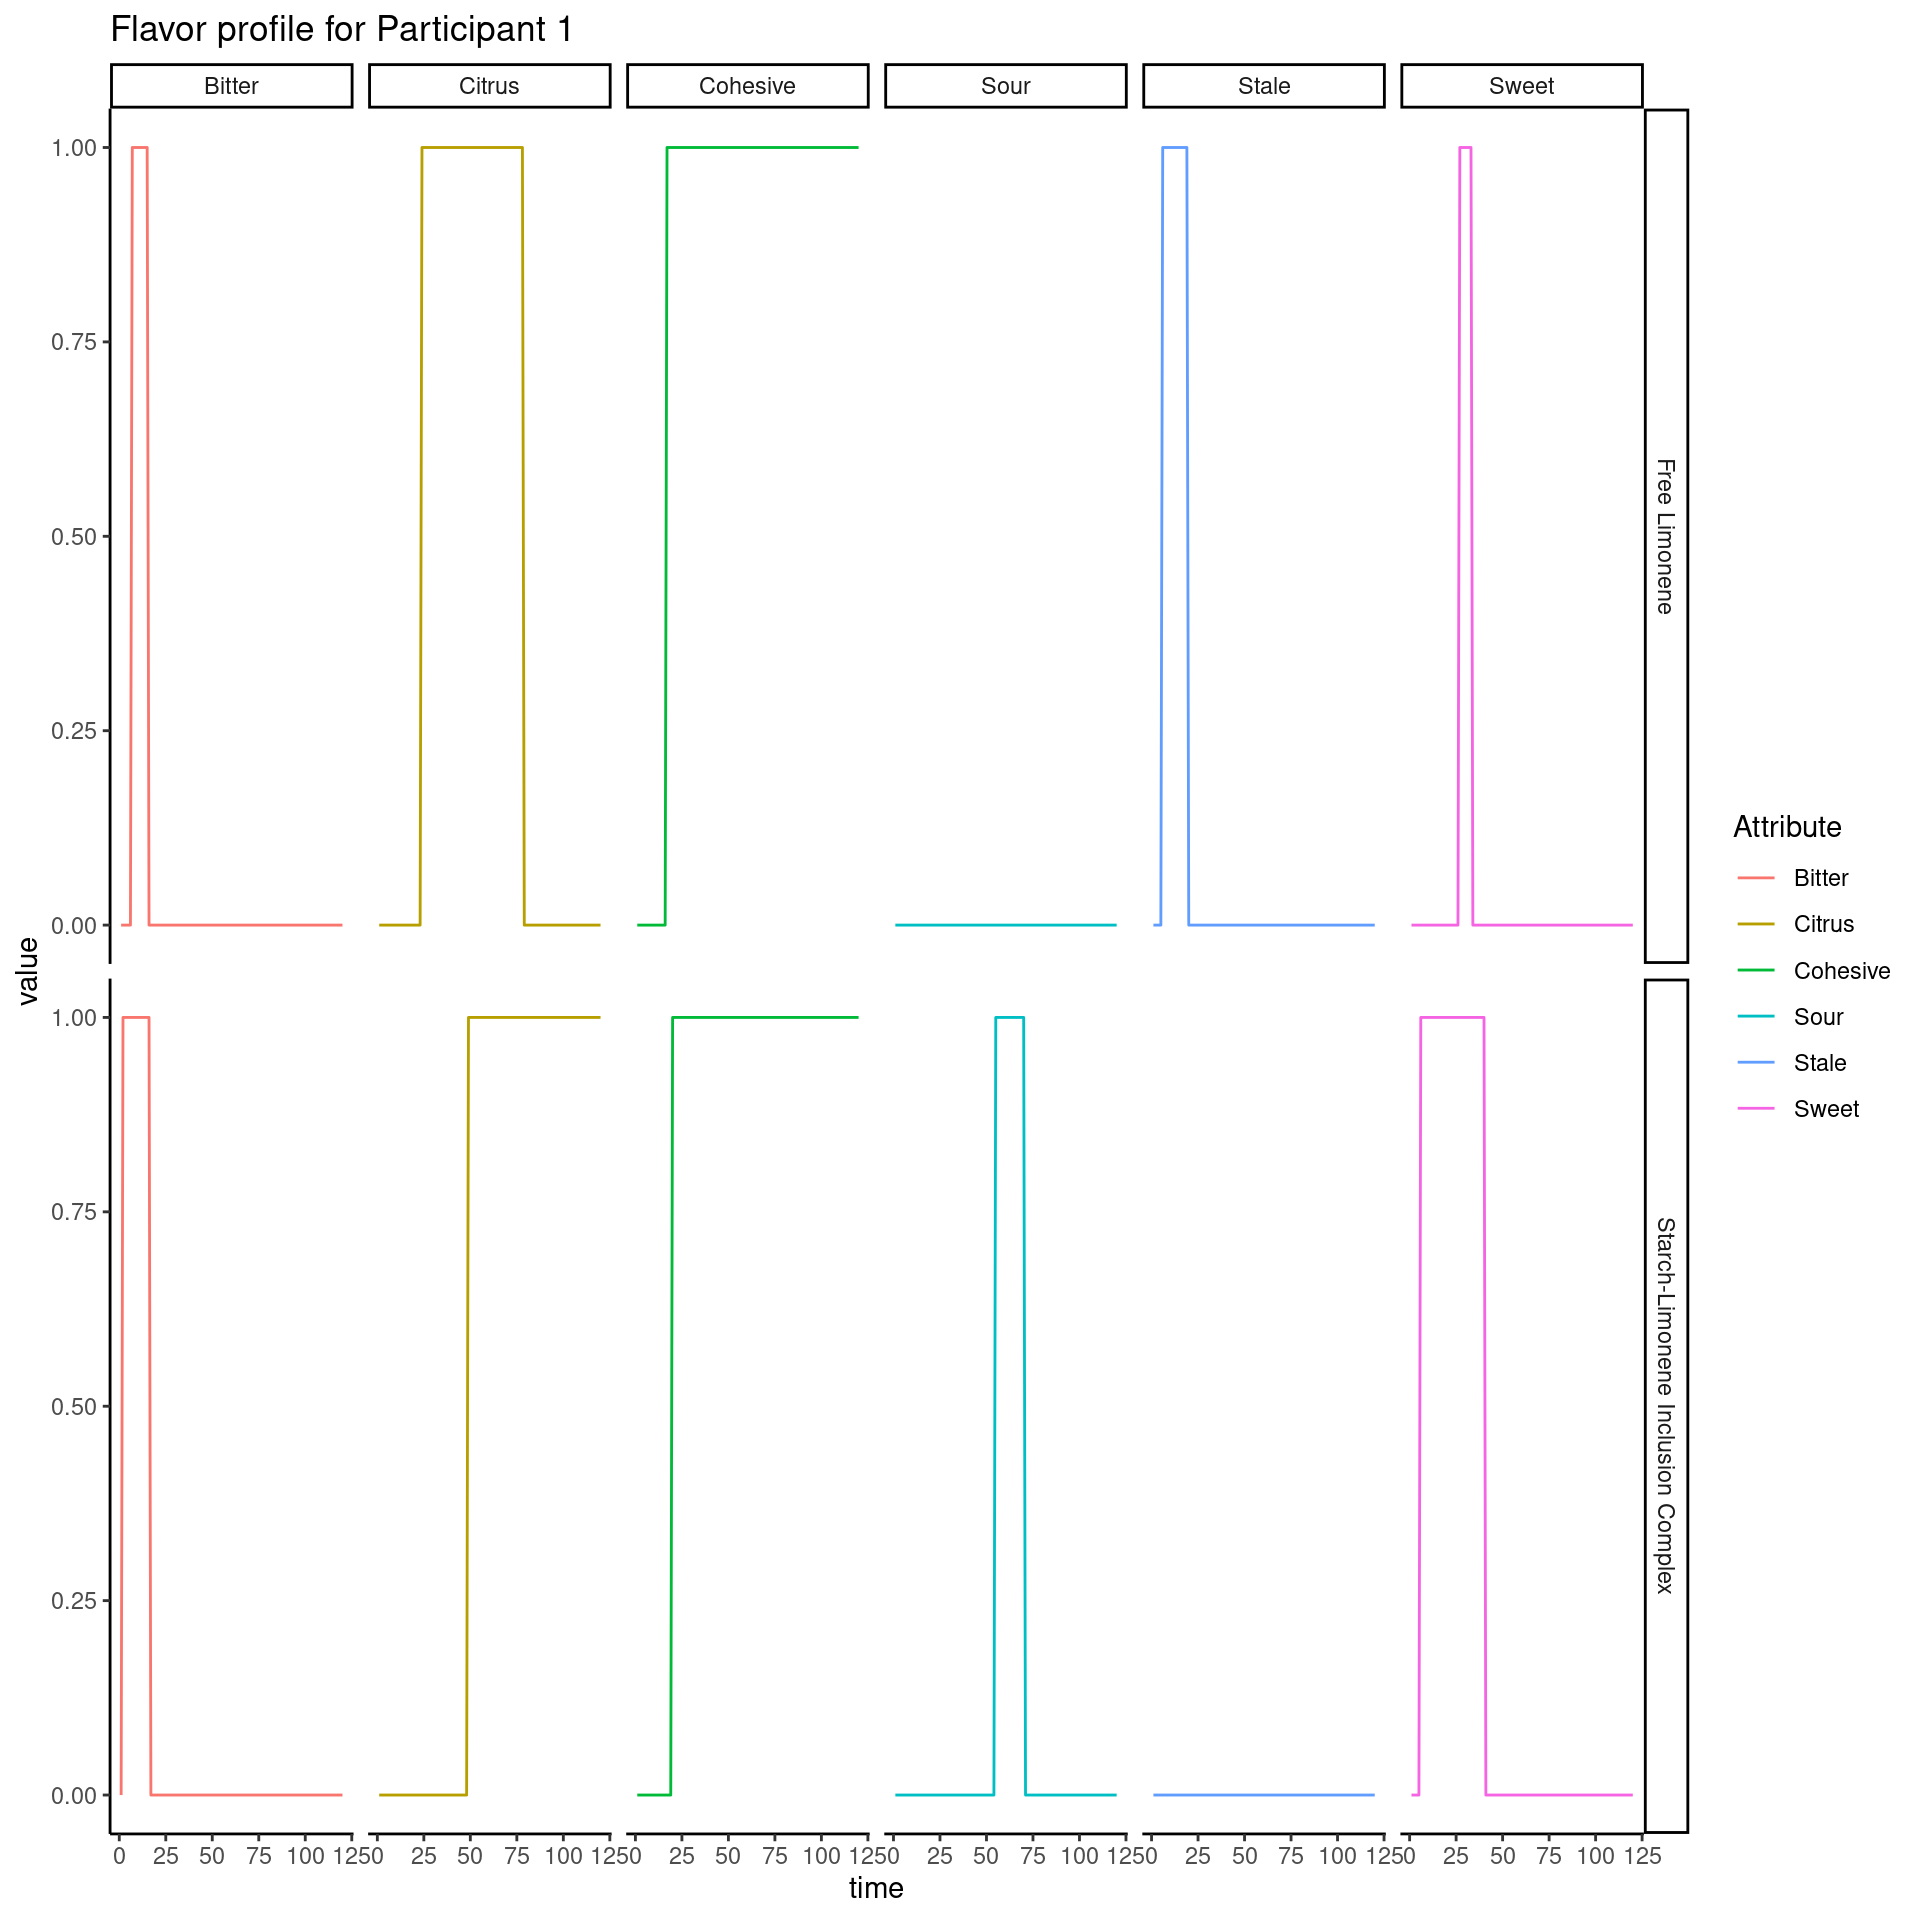
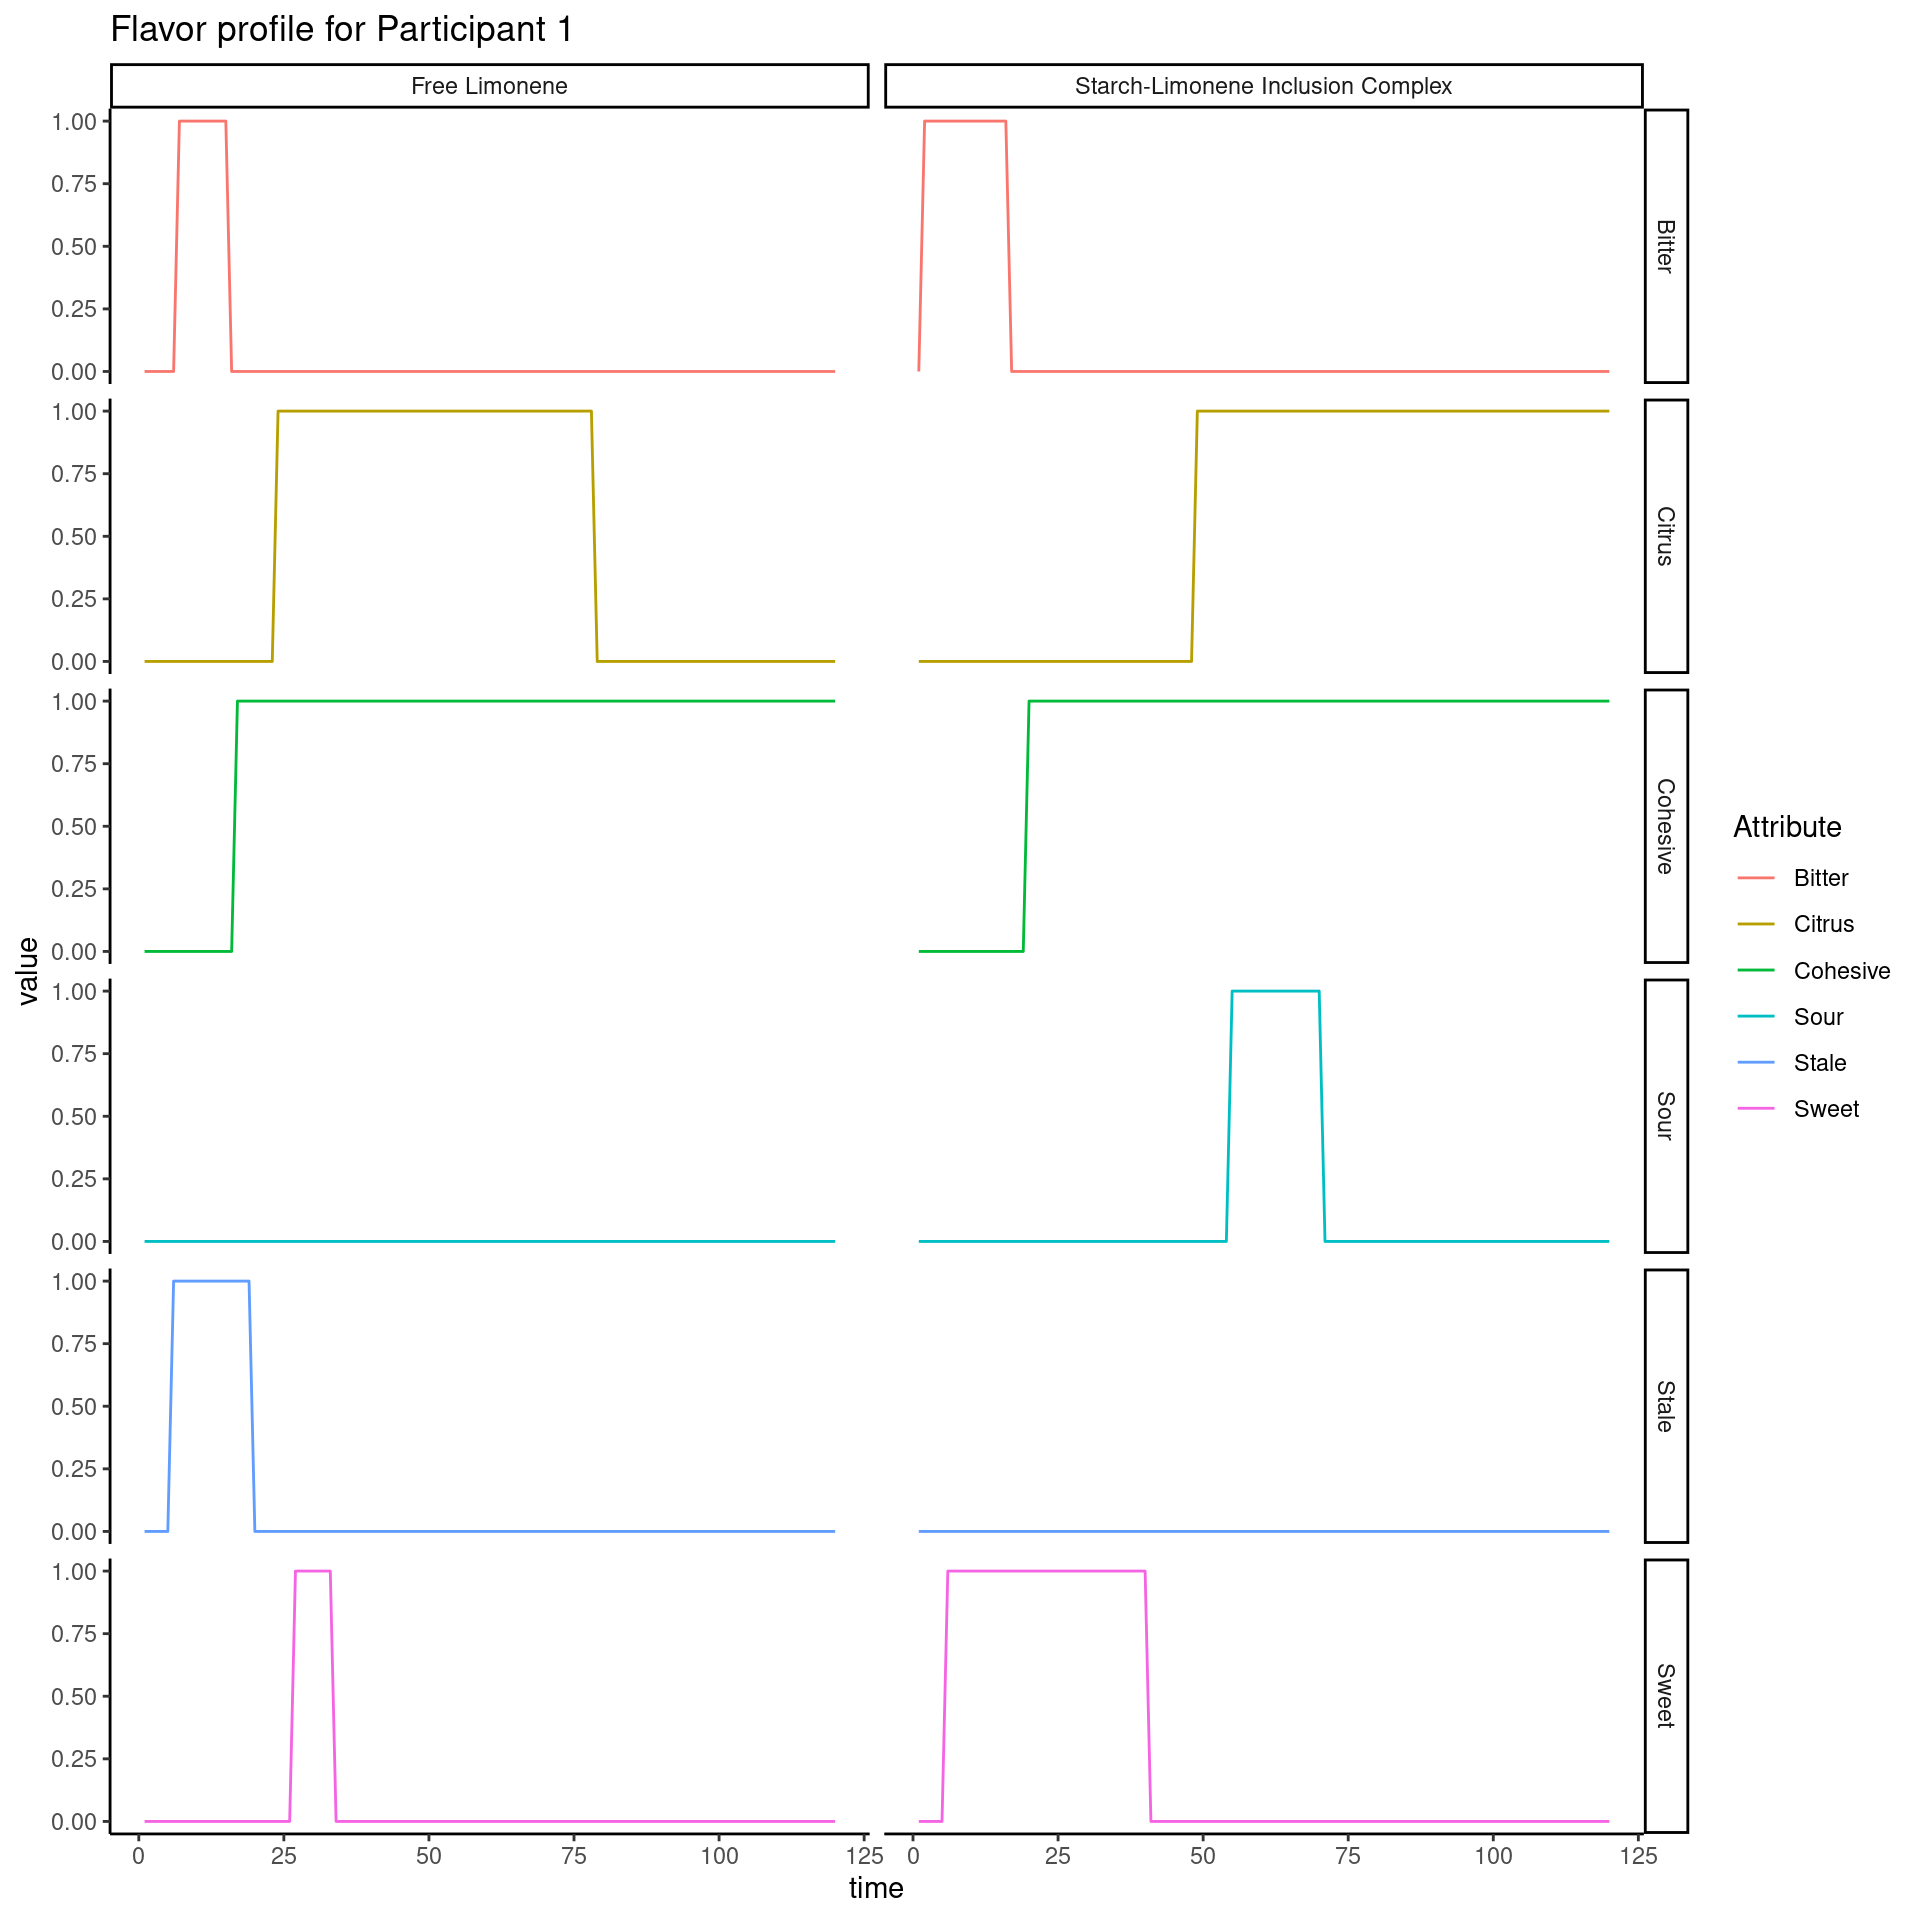
Build site.

diff --git a/docs/tasks.html b/docs/tasks.html
@@ -499,16 +499,16 @@ relative
 <div class="panel panel-default">
 <div class="panel-heading">
 <p class="panel-title">
-<a data-toggle="collapse" data-parent="#workflowr-checks" href="#strongRepositoryversionstrongahrefhttpsgithubcomhcvwinterviewtree88c73ce2c329e5f6487c1768f3f71b3f33260978targetblank88c73cea"> <span class="glyphicon glyphicon-ok text-success" aria-hidden="true"></span> <strong>Repository version:</strong> <a href="https://github.com/hcvw/interview/tree/88c73ce2c329e5f6487c1768f3f71b3f33260978" target="_blank">88c73ce</a> </a>
+<a data-toggle="collapse" data-parent="#workflowr-checks" href="#strongRepositoryversionstrongahrefhttpsgithubcomhcvwinterviewtree31cc92b714d41070953db86c34a3cb3dbaf4b238targetblank31cc92ba"> <span class="glyphicon glyphicon-ok text-success" aria-hidden="true"></span> <strong>Repository version:</strong> <a href="https://github.com/hcvw/interview/tree/31cc92b714d41070953db86c34a3cb3dbaf4b238" target="_blank">31cc92b</a> </a>
 </p>
 </div>
[2 lines of base64/hex data omitted]
 <div class="panel-body">
 <p>
 Great! You are using Git for version control. Tracking code development and connecting the code version to the results is critical for reproducibility.
 </p>
 <p>
-The results in this page were generated with repository version <a href="https://github.com/hcvw/interview/tree/88c73ce2c329e5f6487c1768f3f71b3f33260978" target="_blank">88c73ce</a>. See the <em>Past versions</em> tab to see a history of the changes made to the R Markdown and HTML files.
+The results in this page were generated with repository version <a href="https://github.com/hcvw/interview/tree/31cc92b714d41070953db86c34a3cb3dbaf4b238" target="_blank">31cc92b</a>. See the <em>Past versions</em> tab to see a history of the changes made to the R Markdown and HTML files.
 </p>
 <p>
 Note that you need to be careful to ensure that all relevant files for the analysis have been committed to Git prior to generating the results (you can use <code>wflow_publish</code> or <code>wflow_git_commit</code>). workflowr only checks the R Markdown file, but you know if there are other scripts or data files that it depends on. Below is the status of the Git repository when the results were generated:
@@ -556,6 +556,40 @@ Message
 </tr>
 </thead>
 <tbody>
+<tr>
+<td>
+Rmd
+</td>
+<td>
+<a href="https://github.com/hcvw/interview/blob/31cc92b714d41070953db86c34a3cb3dbaf4b238/analysis/tasks.rmd" target="_blank">31cc92b</a>
+</td>
+<td>
+Hannah Van Wyk
+</td>
+<td>
+2024-03-04
+</td>
+<td>
+Start my new project
+</td>
+</tr>
+<tr>
+<td>
+html
+</td>
+<td>
+<a href="https://rawcdn.githack.com/hcvw/interview/b0ef3e6bdb4ef958d7baa2b1f1dbdefd8afb112e/docs/tasks.html" target="_blank">b0ef3e6</a>
+</td>
+<td>
+Hannah Van Wyk
+</td>
+<td>
+2024-03-04
+</td>
+<td>
+Build site.
+</td>
+</tr>
 <tr>
 <td>
 Rmd
@@ -3039,7 +3073,7 @@ flavor_long_indiv &lt;- flavor_long_indiv %&gt;%
   group_by(time,Attribute,Sample_Name,Blinding_Code) </code></pre>
 <pre class="r"><code>ggplot(flavor_long_indiv) + 
   geom_line(aes(x = time, y=value,color=Attribute)) + 
-  facet_grid(Sample_Name~Attribute) +
+  facet_grid(Attribute~Sample_Name) +
   ggtitle(&quot;Flavor profile for Participant 1&quot;) + 
   theme_classic()</code></pre>
 <p><img src="figure/tasks.rmd/indivplot-1.png" width="960" style="display: block; margin: auto;" /></p>
@@ -3065,6 +3099,17 @@ Date
 </tr>
 </thead>
 <tbody>
+<tr>
+<td>
+<a href="https://github.com/hcvw/interview/blob/b0ef3e6bdb4ef958d7baa2b1f1dbdefd8afb112e/docs/figure/tasks.rmd/indivplot-1.png" target="_blank">b0ef3e6</a>
+</td>
+<td>
+Hannah Van Wyk
+</td>
+<td>
+2024-03-04
+</td>
+</tr>
 <tr>
 <td>
 <a href="https://github.com/hcvw/interview/blob/31e0b0ce28a74a6dbfe90c26db1774763ddb8ea1/docs/figure/tasks.rmd/indivplot-1.png" target="_blank">31e0b0c</a>
